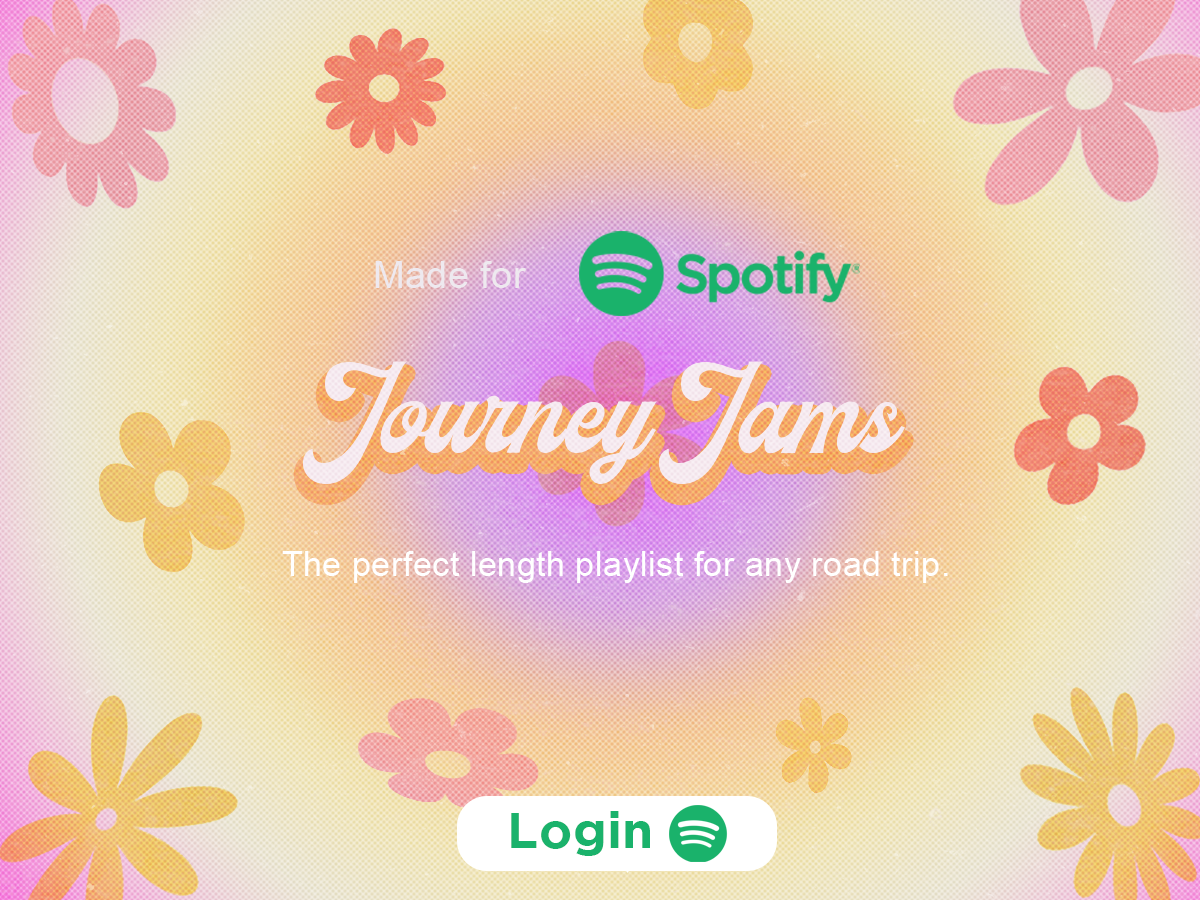
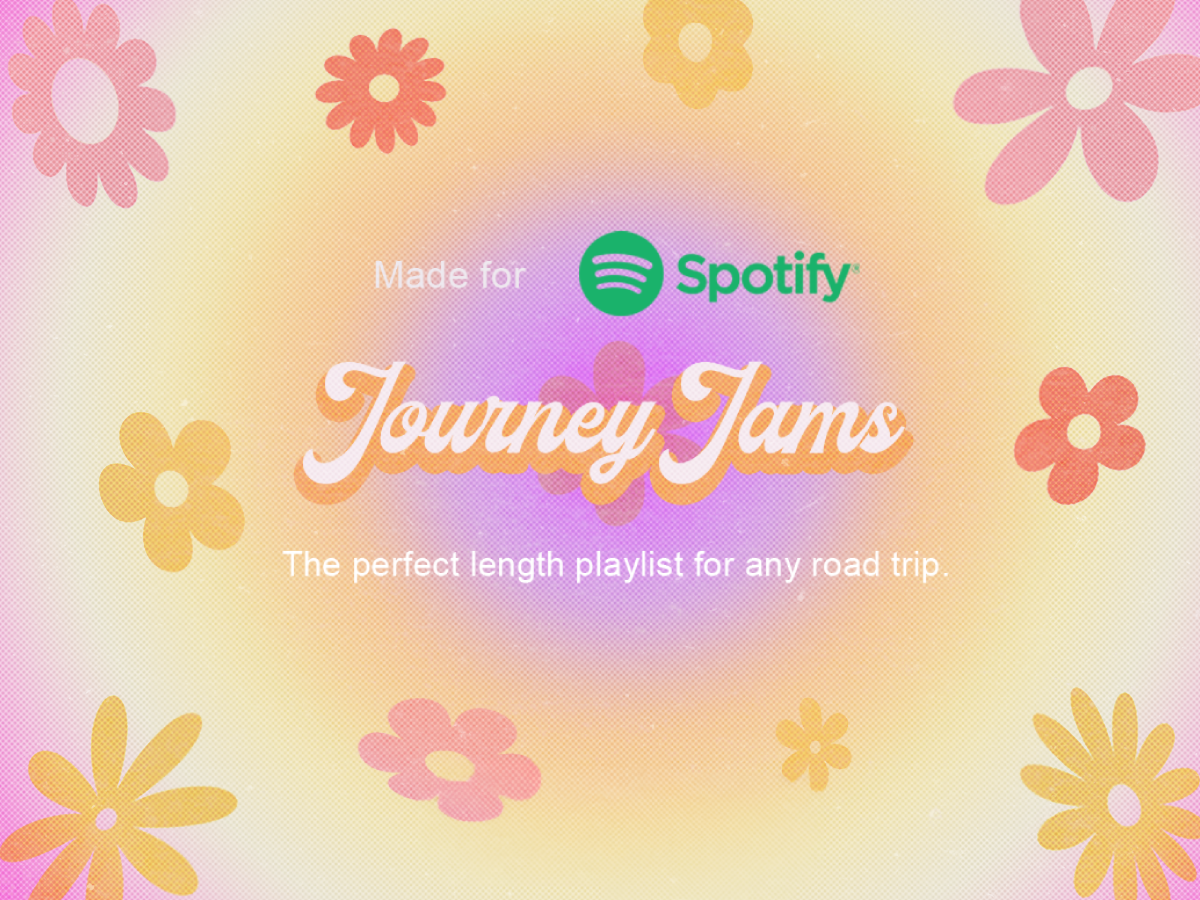
i wish i knew what all these changes were

Changed region(s): [[0.3392, 0.84, 0.6475, 0.9956]]

diff --git a/public/styles.css b/public/styles.css
@@ -95,7 +95,7 @@ button {
 
 .spotify {
   display: inline-block;
-  margin-top: 45%; /* Adjust as needed to control the distance from the bottom */
+  margin-top: 30%; /* Adjust as needed to control the distance from the bottom */
   padding: 10px 20px;
   font-size: 56px;
   text-decoration: none;
@@ -138,3 +138,7 @@ button {
 .artist-details h3 {
   margin-bottom: 10px;
 }
+
+.results {
+font-size: 18px;
+text-align: center;}

diff --git a/public/form.html b/public/form.html
@@ -2,7 +2,7 @@
 <html lang="en">
 <head>
   <meta charset="UTF-8">
-  <title>Spotify Journey Jams</title>
+  <title>Spotify Journey</title>
   <link rel="stylesheet" href="styles.css">
 </head>
 <body class="page2">
